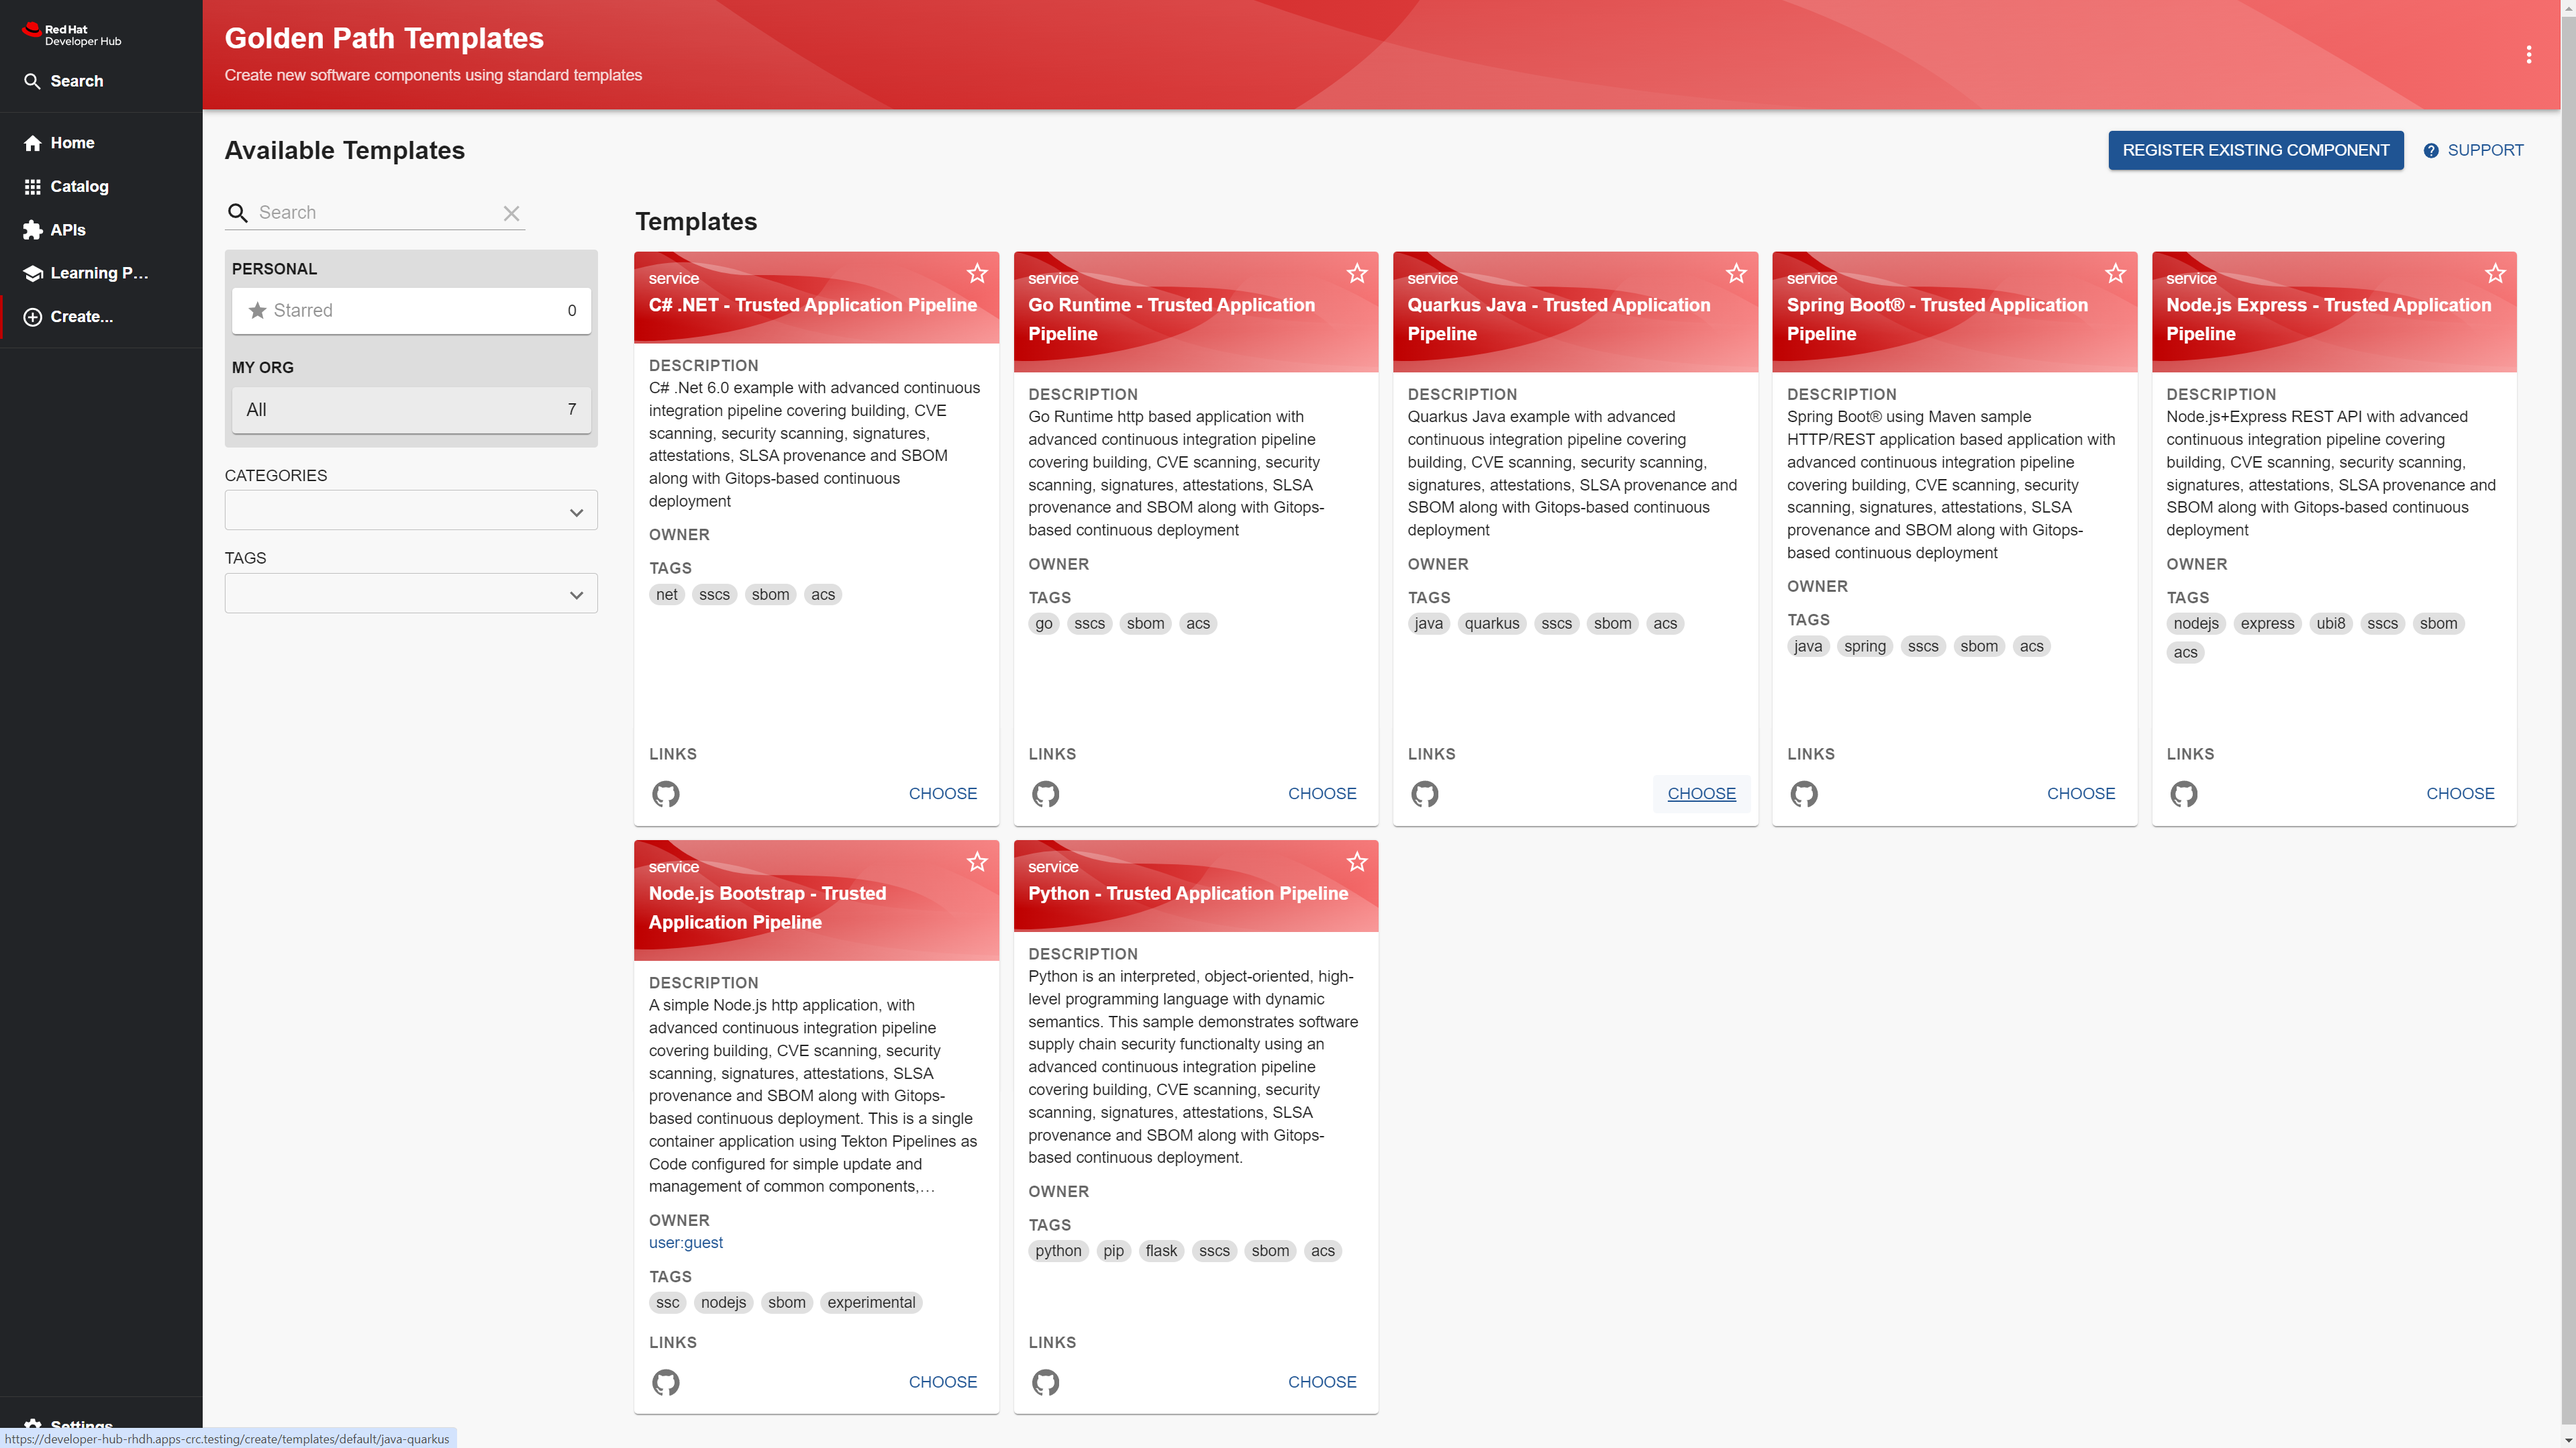
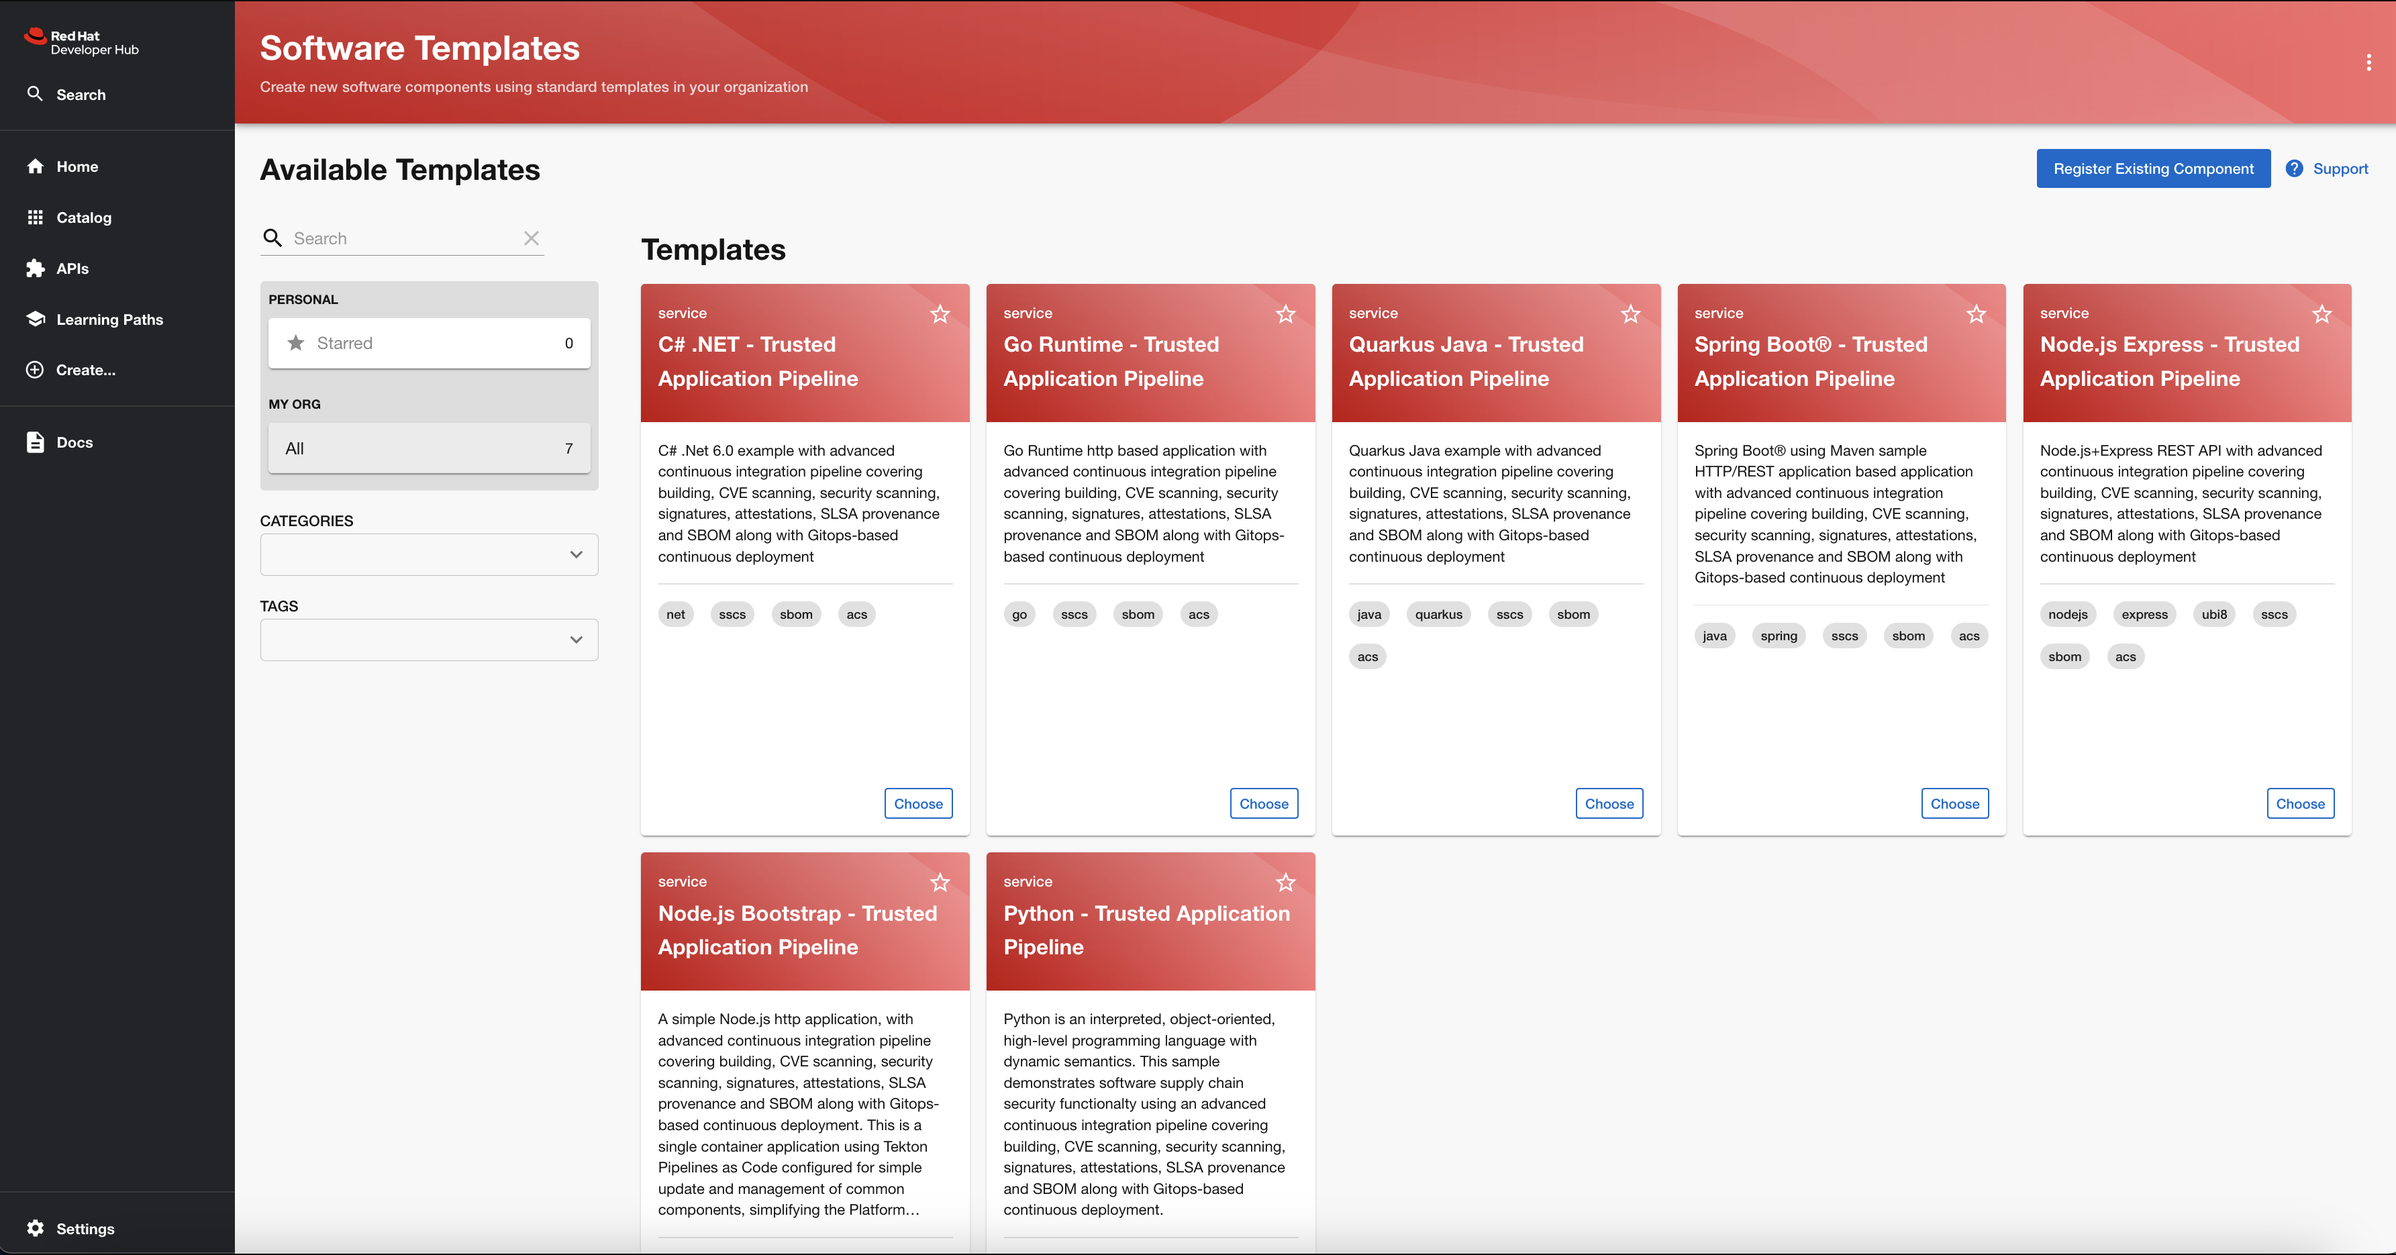
GPT -> Software Templates

diff --git a/README.md b/README.md
@@ -7,7 +7,7 @@ This repository provides a suite of language/framework examples that implement e
 
 The examples contain an advanced continuous integration pipeline covering building, CVE scanning, security scanning, signatures,  attestations, SLSA provenance and SBOM along with Gitops-based continuous deployment 
 
-GPT authors and IDP builders can take these samples to create their own SSCS based starters. The components in the samples are designed to be maintainable to ensure that day 2 maintainance of default build pipelines and deployment yaml ensures teams have 
+Software Template authors and IDP builders can take these samples to create their own SSCS based starters. The components in the samples are designed to be maintainable to ensure that day 2 maintainance of default build pipelines and deployment yaml ensures teams have 
 
 
 ## Usage in Red Hat Developer Hub
@@ -40,9 +40,9 @@ This will add the samples into a set of backstage templates.
 
 The templates are found in `./templates` and reference reusable content in `./skeleton`.  
 
-The templates are maintained by importing external samples into GPT format. This allows the external samples to be used standalone, developed, and evolved and then imported.
+The templates are maintained by importing external samples into the software template format. This allows the external samples to be used standalone, developed, and evolved and then imported.
 
-The pipelines are also maintained externally to allow standalone use outside of GPTs, as well as evolution of the pipelines in one of more GPTs.
+The pipelines are also maintained externally to allow standalone use outside of software templates, as well as evolution of the pipelines in one of more software templates.
 
 To update the templates from these or any new samples you update the list of imported repos and run the following. 
 
